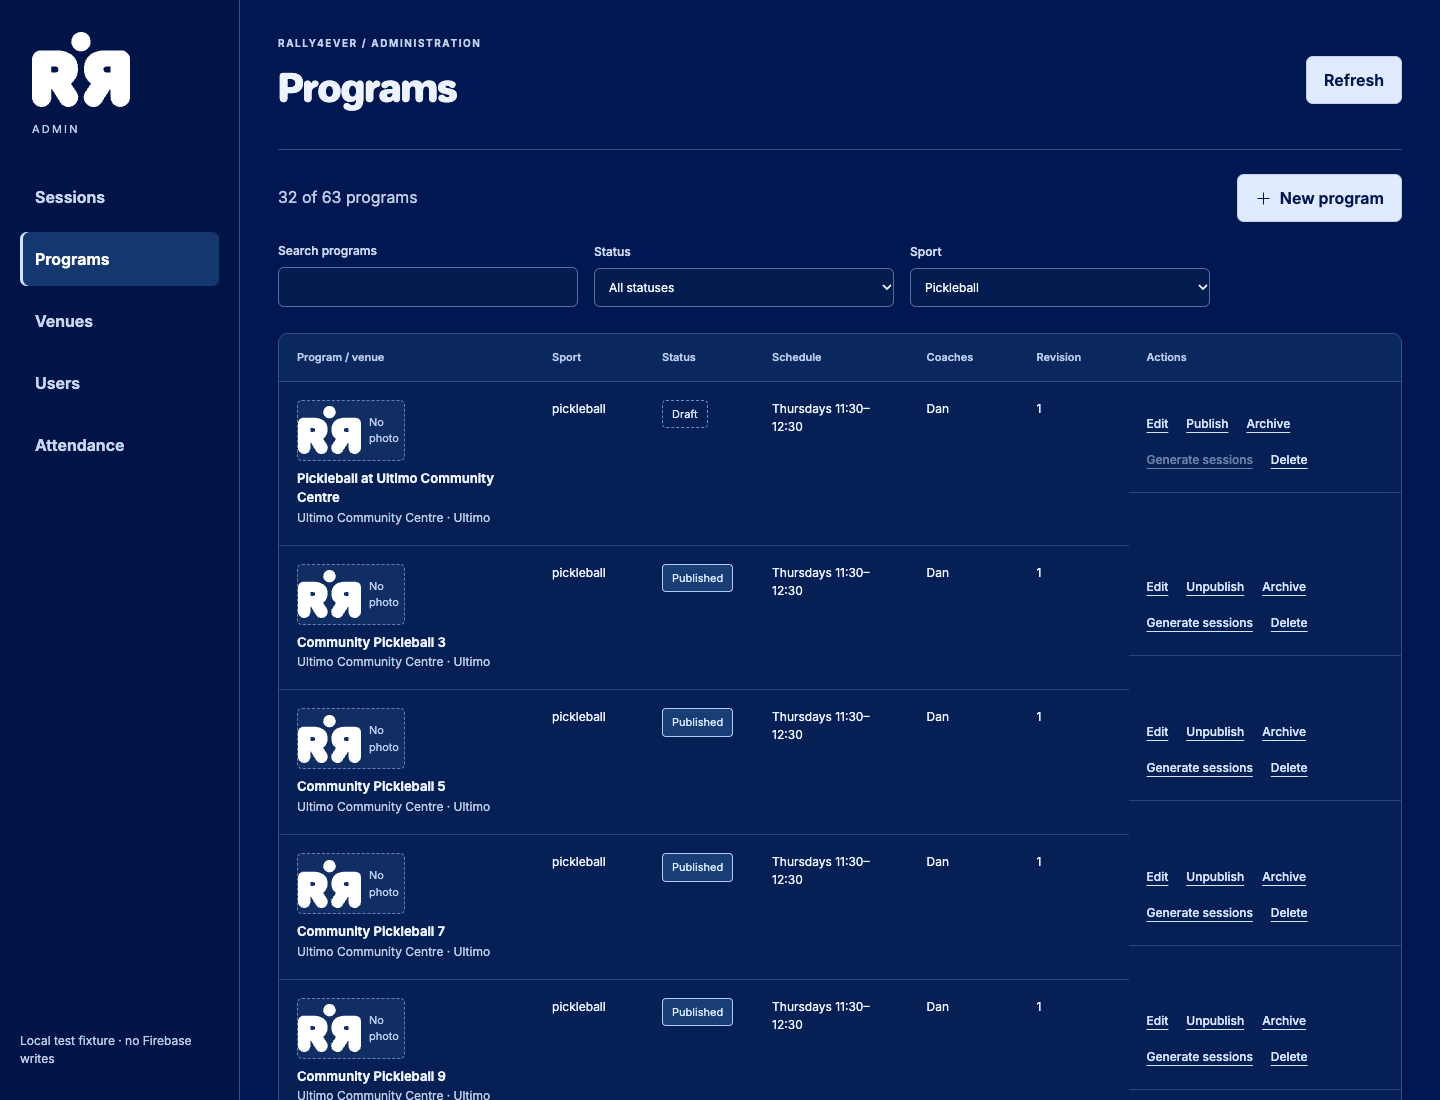
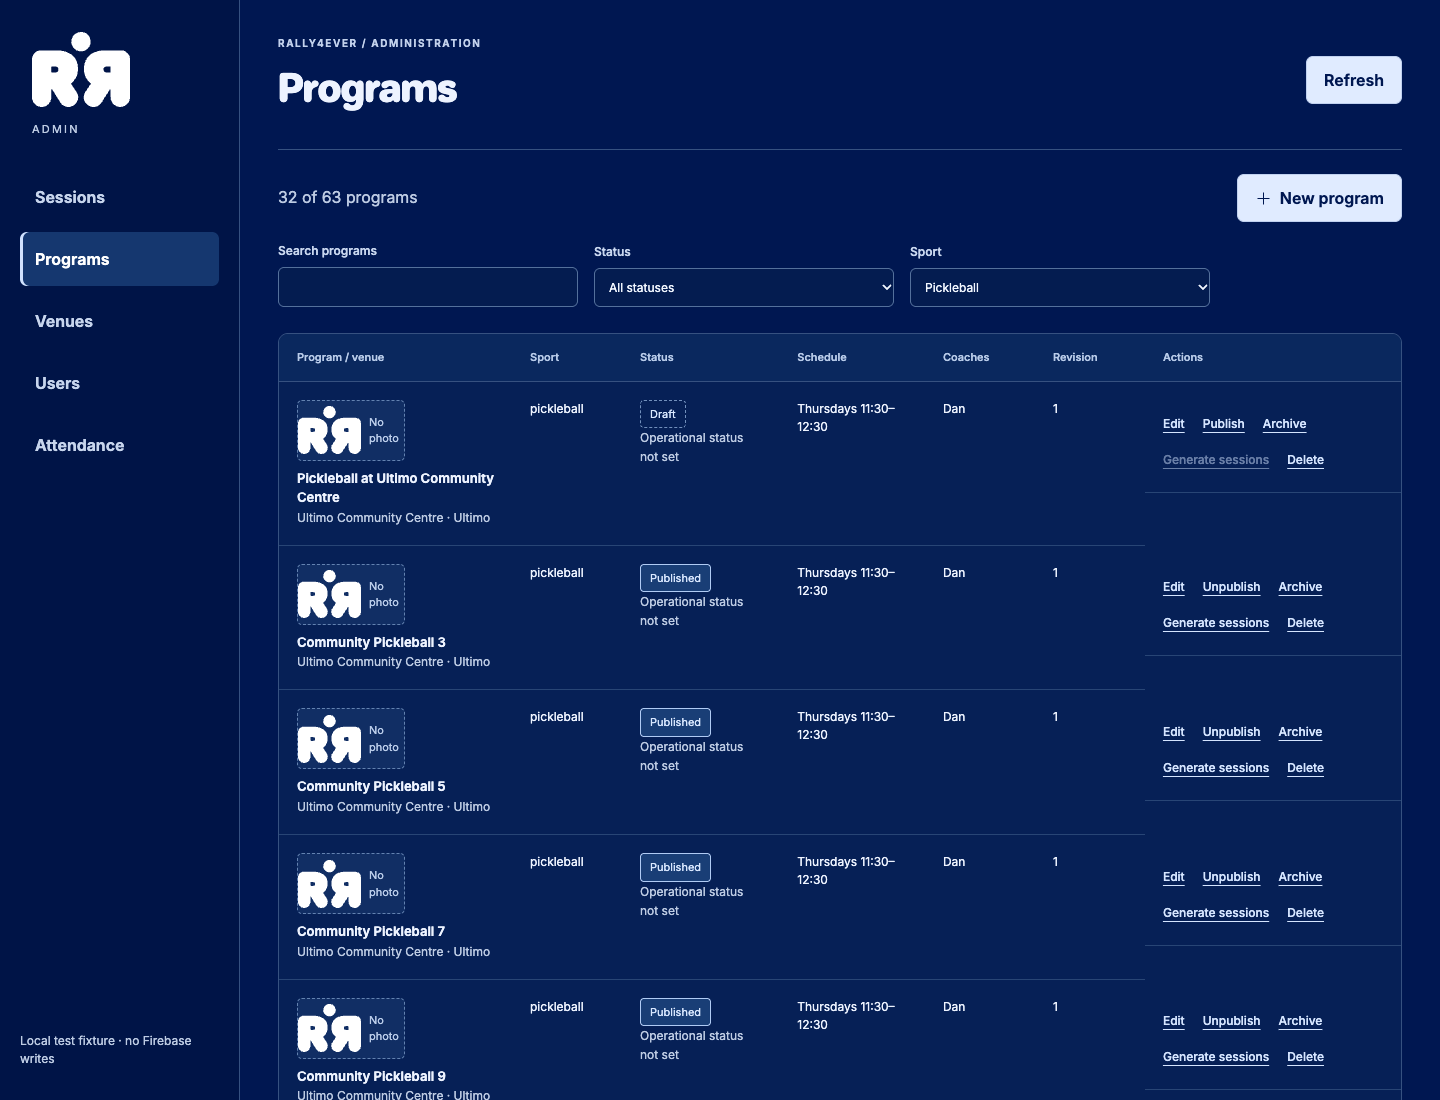
Add spreadsheet workflow statuses to programs and sessions

diff --git a/web-admin/test/browser/admin.spec.js b/web-admin/test/browser/admin.spec.js
@@ -397,3 +397,70 @@ test("session spreadsheet details submit separately from participant-readable ch
   expect(payload.changes.operations).toBeUndefined();
   await shot(page, "after-session-spreadsheet-fields");
 });
+
+const operationalStatuses = [
+  "Group",
+  "Active",
+  "Starting",
+  "TBC",
+  "Tentative",
+  "In process",
+  "Pending",
+  "Unknown",
+  "Prospective",
+  "On hold",
+  "Inactive",
+  "Cancelled",
+  "One-off",
+];
+test("program offers every spreadsheet status without changing publication", async ({
+  page,
+}) => {
+  await open(page, "Programs");
+  await page.getByRole("button", { name: "Edit", exact: true }).first().click();
+  const status = page.getByLabel("Operational status", { exact: true });
+  await expect(status.locator("option")).toHaveText([
+    "Not set",
+    ...operationalStatuses,
+  ]);
+  for (const value of operationalStatuses) {
+    await status.selectOption(value);
+    await expect(status).toHaveValue(value);
+  }
+  await status.selectOption("Prospective");
+  await expect(
+    page.getByLabel("Publication status", { exact: true }),
+  ).toHaveValue("draft");
+  await shot(page, "after-program-operational-status");
+  await page.getByRole("button", { name: "Save program", exact: true }).click();
+  const payload = await page.evaluate(
+    () => window.__calls.filter((c) => c.name === "saveProgram").at(-1).data,
+  );
+  expect(payload.operations.fields.status).toBe("Prospective");
+  expect(payload.program.status).toBe("draft");
+});
+test("session offers every spreadsheet status and operational cancellation does not cancel publication", async ({
+  page,
+}) => {
+  await open(page, "SessionDetails");
+  const status = page.getByLabel("Operational status", { exact: true });
+  await expect(status.locator("option")).toHaveText([
+    "Not set",
+    ...operationalStatuses,
+  ]);
+  for (const value of operationalStatuses) {
+    await status.selectOption(value);
+    await expect(status).toHaveValue(value);
+  }
+  await status.selectOption("Cancelled");
+  await expect(
+    page.getByLabel("Publication status", { exact: true }),
+  ).toHaveValue("published");
+  await shot(page, "after-session-operational-status");
+  await page.getByRole("button", { name: "Save session", exact: true }).click();
+  const payload = await page.evaluate(
+    () => window.__calls.find((c) => c.name === "adminSaveSession").data,
+  );
+  expect(payload.operations.fields.status).toBe("Cancelled");
+  expect(payload.changes.status).toBe("published");
+});

diff --git a/web-admin/src/main.jsx b/web-admin/src/main.jsx
@@ -1,4 +1,8 @@
-import { OperationsEditor, initialOperations } from "./operations.jsx";
+import {
+  OperationsEditor,
+  OperationsStatus,
+  initialOperations,
+} from "./operations.jsx";
 import { Attendance } from "./attendance.jsx";
 import { Field, Select, Button, Status } from "./controls.jsx";
 import {
@@ -636,7 +640,13 @@ function Sessions({ data, users, action, busy }) {
                   {fields.map((k) => (
                     <td key={k}>
                       {k === "status" ? (
-                        <Status value={r.status} />
+                        <>
+                          <Status value={r.status} />
+                          <small>
+                            {r.operations?.fields?.status ||
+                              "Operational status not set"}
+                          </small>
+                        </>
                       ) : k === "photoUrl" ? (
                         <Photo
                           url={resolvePhoto(r, data.venues)}
@@ -952,8 +962,12 @@ function SessionEditor({ row, data, users, busy, onSave, onClose }) {
           onChange={(x) => set("sport", x)}
           options={["tennis", "pickleball"]}
         />
+        <OperationsStatus
+          value={v.operations}
+          onChange={(value) => set("operations", value)}
+        />
         <Select
-          label="Status"
+          label="Publication status"
           value={v.status}
           onChange={(x) => set("status", x)}
           options={["draft", "published", "cancelled", "archived"]}
@@ -1256,6 +1270,10 @@ function Programs({ data, users, action, busy, api = call }) {
                 <td>{p.sport}</td>
                 <td>
                   <Status value={p.deletedAt ? "deleted" : p.status} />
+                  <small>
+                    {p.operations?.fields?.status ||
+                      "Operational status not set"}
+                  </small>
                 </td>
                 <td>{p.scheduleText}</td>
                 <td>{p.coachNames?.join(", ")}</td>
@@ -1582,8 +1600,12 @@ function ProgramEditor({ row, data, users, busy, onSave, onClose }) {
             </small>
           )}
         </div>
+        <OperationsStatus
+          value={v.operations}
+          onChange={(value) => set("operations", value)}
+        />
         <Select
-          label="Status"
+          label="Publication status"
           value={v.status}
           onChange={(x) => set("status", x)}
           options={[

diff --git a/web-admin/src/operations.jsx b/web-admin/src/operations.jsx
@@ -1,6 +1,9 @@
 import React from "react";
-import { operationsFields } from "../../functions/src/operations_schema.ts";
-import { Field, Button } from "./controls.jsx";
+import {
+  operationsFields,
+  operationsStatuses,
+} from "../../functions/src/operations_schema.ts";
+import { Field, Button, Select } from "./controls.jsx";
 
 export function initialOperations(row = {}) {
   const v = row.venue ?? {};
@@ -8,7 +11,7 @@ export function initialOperations(row = {}) {
     fields: {
       location: v.suburb ?? v.name ?? "",
       state: v.state ?? "",
-      status: row.status ?? "",
+      status: "",
       scName: row.name ?? "",
       scActivities: row.sport ?? "",
       facilityName: v.name ?? "",
@@ -19,6 +22,27 @@ export function initialOperations(row = {}) {
     contacts: row.operations?.contacts ?? [],
   };
 }
+// Keep publication/booking state separate from the spreadsheet workflow status.
+export function OperationsStatus({ value = {}, onChange }) {
+  const status = value.fields?.status ?? "";
+  return (
+    <Select
+      label="Operational status"
+      value={status}
+      onChange={(status) =>
+        onChange({ ...value, fields: { ...value.fields, status } })
+      }
+      options={[
+        { value: "", label: "Not set" },
+        ...(status && !operationsStatuses.includes(status)
+          ? [{ value: status, label: `${status} (existing value)` }]
+          : []),
+        ...operationsStatuses,
+      ]}
+    />
+  );
+}
+
 export function OperationsEditor({ value = {}, onChange, inherited = false }) {
   const fields = value.fields ?? {},
     contacts = value.contacts ?? [];
@@ -47,7 +71,7 @@ export function OperationsEditor({ value = {}, onChange, inherited = false }) {
           <legend>{group}</legend>
           <div className="form-grid">
             {operationsFields
-              .filter((f) => f.group === group)
+              .filter((f) => f.group === group && f.key !== "status")
               .map((f) => (
                 <Field key={f.key} label={f.label}>
                   <textarea

diff --git a/functions/src/operations_schema.ts b/functions/src/operations_schema.ts
@@ -1,3 +1,20 @@
+// Source spreadsheet statuses, deduplicated without changing their wording.
+export const operationsStatuses = [
+  "Group",
+  "Active",
+  "Starting",
+  "TBC",
+  "Tentative",
+  "In process",
+  "Pending",
+  "Unknown",
+  "Prospective",
+  "On hold",
+  "Inactive",
+  "Cancelled",
+  "One-off",
+];
+
 // Shared admin-only spreadsheet schema; do not put these fields in public event/program documents.
 export const operationsFields = [
   {

diff --git a/docs/CHANGELOG.md b/docs/CHANGELOG.md
@@ -504,3 +504,9 @@ Re-verification pass under a new staged task spec. The underlying fix (and the r
 
 - Release-signed staging 1.0.3+29 prepared for both platforms and verified. Apple CLI upload succeeded; App Store Connect confirms Processing at 5:30 pm. Play accepted 29 and saved it as the only bundle in the existing Closed testing Alpha draft; five pre-existing app setup/declaration requirements block rollout.
 - Deployed the five affected attendance/no-app functions and check-in Hosting only to rally4ever-3adaf. Verified ACTIVE functions, hosted three-agreement UI, unchanged legal document fields, and HTTP 401 on unauthenticated checkIn/addWalkIn. No profiles/Auth users, legal documents, rules or production store tracks changed. Backups are ignored at backups/build29-three-forms/deployed/.
+
+## 2026-11-22 — spreadsheet workflow statuses in web admin
+
+- Programs and Sessions editors now expose a shared Operational status dropdown: Group, Active, Starting, TBC, Tentative, In process, Pending, Unknown, Prospective, On hold, Inactive, Cancelled, One-off. Repeated source entries appear once; existing imported non-standard values remain selectable and are not overwritten.
+- Renamed the editor lifecycle dropdown to Publication status. Spreadsheet workflow status stays in the existing private operations.fields.status, independent of participant publishing/booking/cancellation state. Both list views show it below the publication badge. New records default to Not set instead of copying draft/published into the spreadsheet field.
+- No rules/index/function behavior or stored records changed. Backed up source and previous admin Hosting release under ignored backups/admin-status-options-20261122/. Lint, production web build, admin helper tests, 18 browser tests, and 17 backend unit tests passed. Screenshot evidence: docs/screenshots/admin-fixes/after-program-operational-status.png and after-session-operational-status.png.
